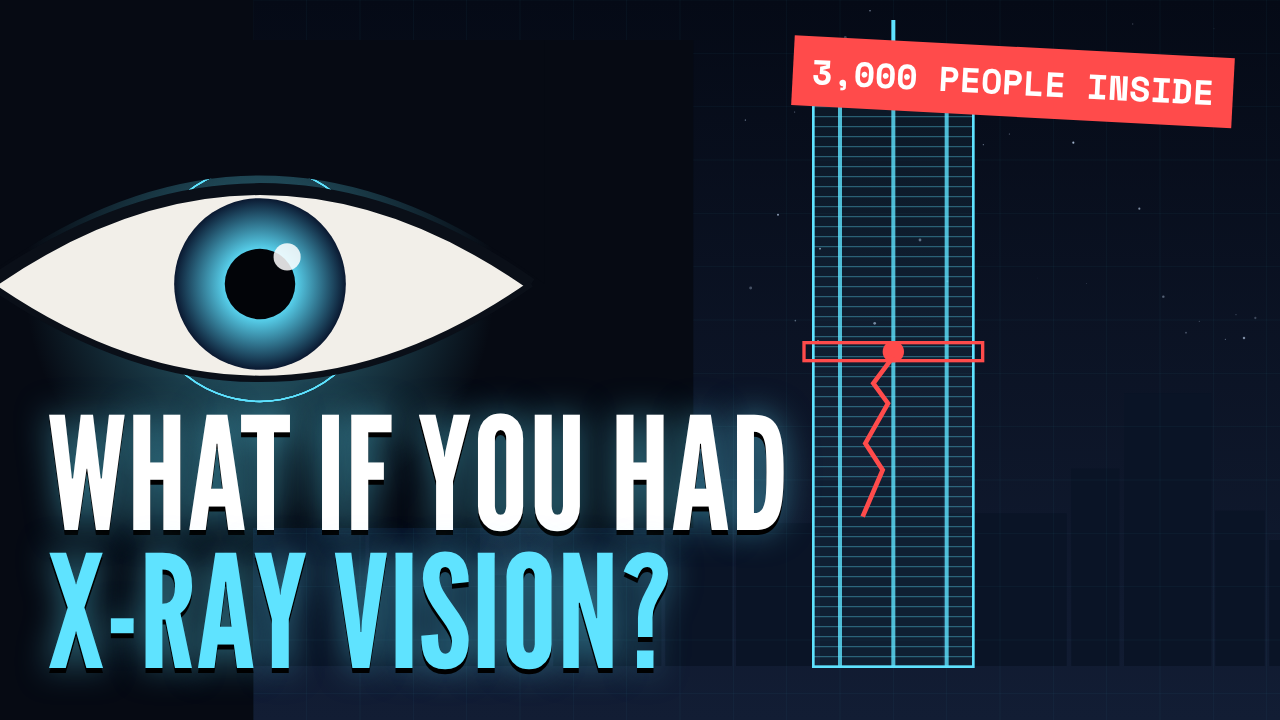
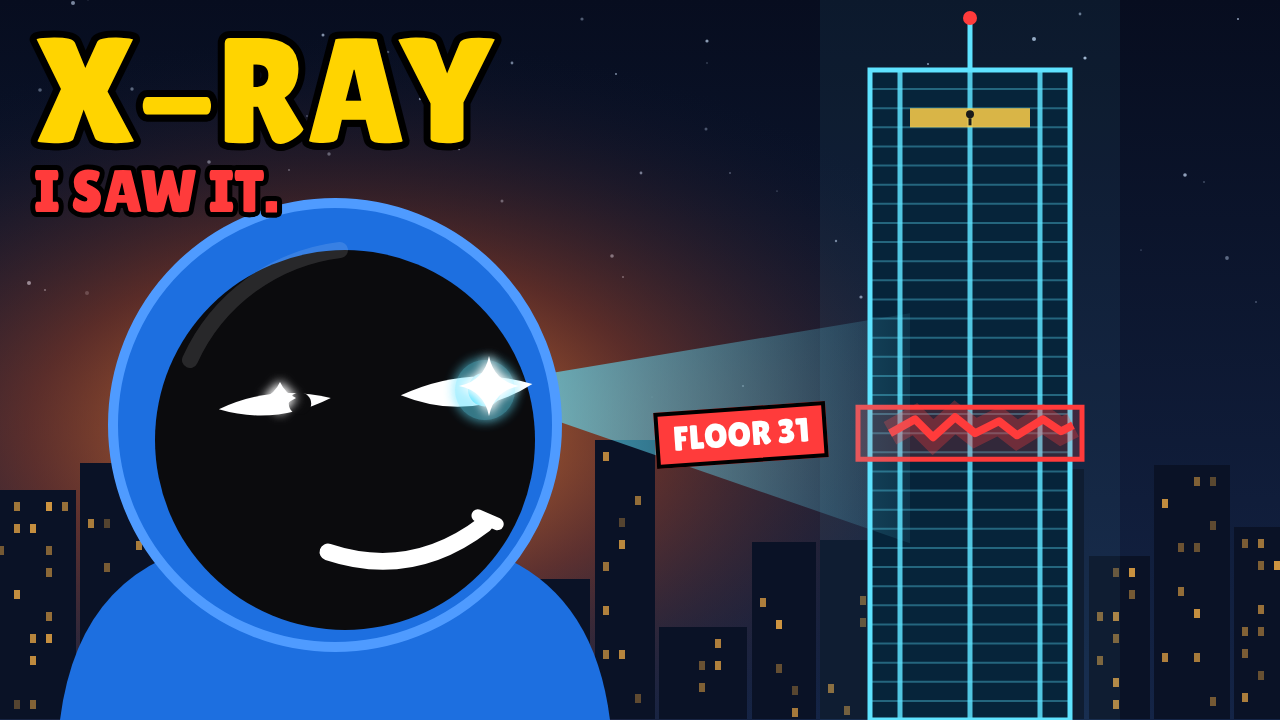
X-ray video: Ifverse-style thumbnails and titles
Original black-head character with x-ray eye beam on the cracked tower,
chunky outlined Lilita One text (OFL), two text variants.

Claude-Session: https://claude.ai/code/session_015TVAhW1n1CrroCF1UjV7m8

diff --git a/videos/xray-vision/out/youtube.md b/videos/xray-vision/out/youtube.md
@@ -1,11 +1,20 @@
 # YouTube package — What If You Had X-Ray Vision?
 
 ## Title
-**What If You Had X-Ray Vision? (And Nobody Believed You)**
+**What If You Had X-Ray Vision?**
 
-Alternates:
+Alternates (same "What If You…?" format, short, no clickbait brackets):
 - What If You Could See Through Everything?
-- What If You Had X-Ray Vision to Save Your Sister?
+- What If You Used X-Ray Vision to Save Your Sister?
+- What If You Saw the Crack Nobody Else Could?
+
+If this becomes a series, follow the channel's part format:
+- What If You Had X-Ray Vision? (Part 1)
+- What If You Used X-Ray Vision to Take Down a Billionaire? (Part 2)
+
+## Thumbnail
+- `thumbnail.png` (recommended): **X-RAY** / *I SAW IT.* + FLOOR 31 tag
+- `thumbnail-alt.png`: **CRACKED.** / *3,000 INSIDE.* + FLOOR 31 tag
 
 ## Description
 At twelve, you saw a shadow inside your father's chest. Nobody believed you. So for ten years you hid behind lead-lined glasses.
